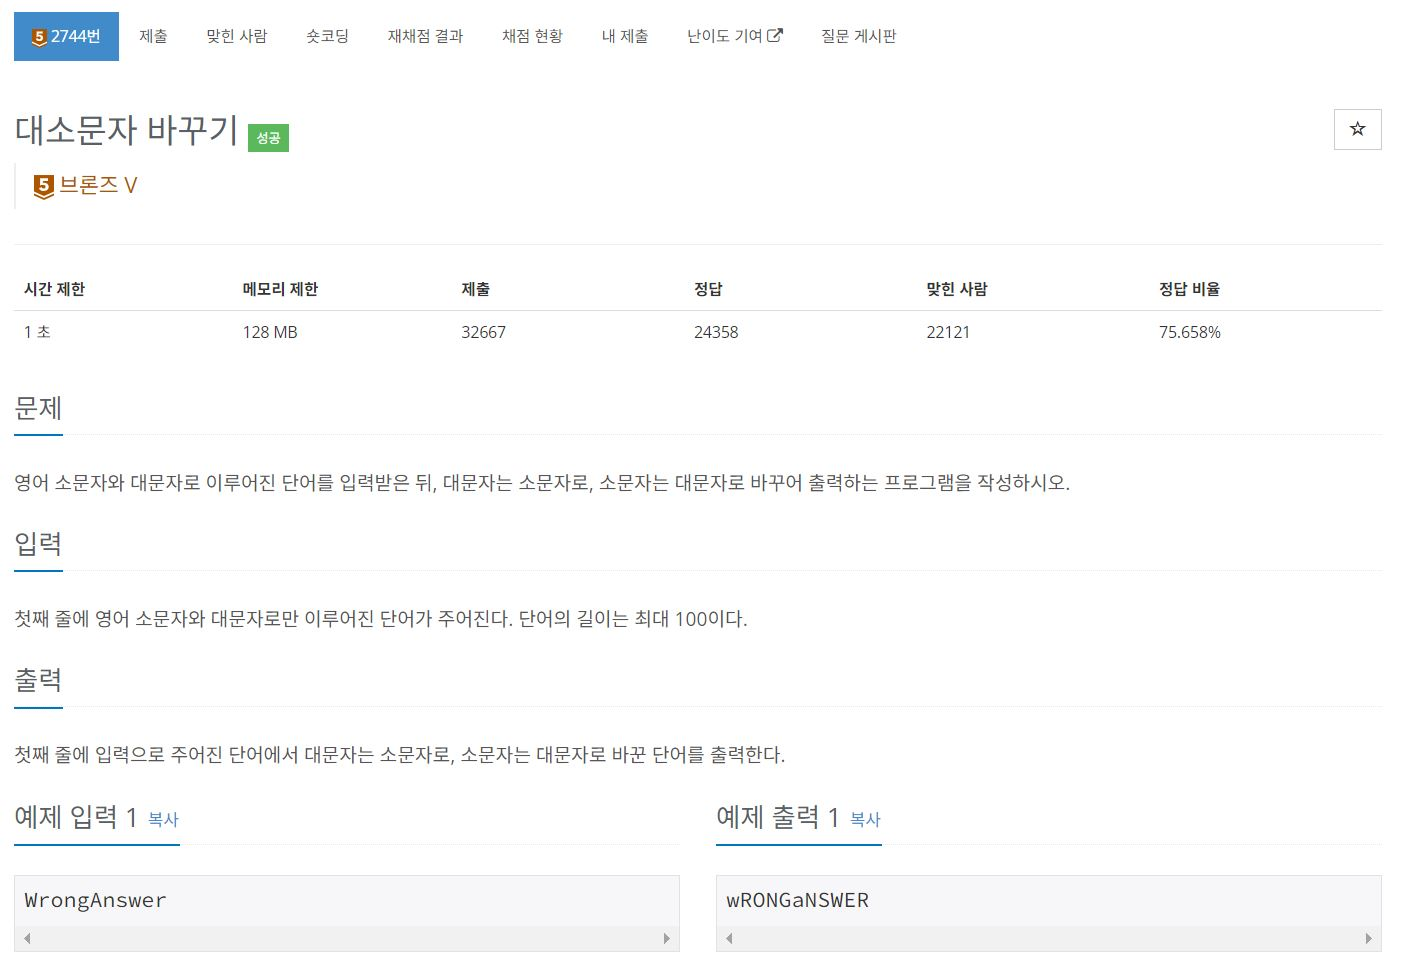
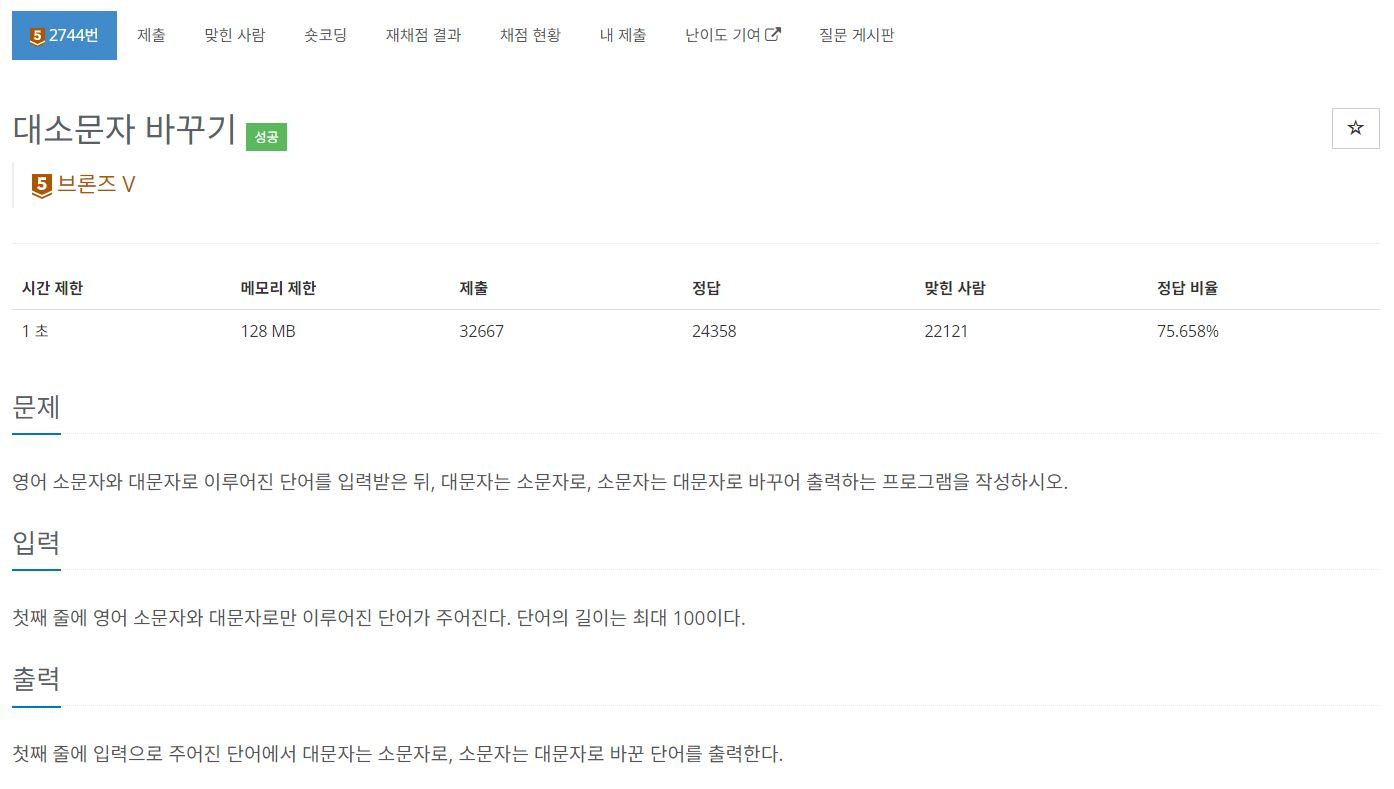
2024 08 04 home

diff --git a/month_08/src/day_04/BOJ_S5_25206/Main.java b/month_08/src/day_04/BOJ_S5_25206/Main.java
@@ -1,0 +1,41 @@
+package day_04.BOJ_S5_25206;
+
+import java.io.*;
+import java.util.*;
+
+public class Main {
+    public static void main(String[] args) throws IOException {
+        BufferedReader br = new BufferedReader(new InputStreamReader(System.in));
+        StringTokenizer st;
+
+        Map<String, Double> gradeMap = new HashMap<>();
+        gradeMap.put("A+", 4.5);
+        gradeMap.put("A0", 4.0);
+        gradeMap.put("B+", 3.5);
+        gradeMap.put("B0", 3.0);
+        gradeMap.put("C+", 2.5);
+        gradeMap.put("C0", 2.0);
+        gradeMap.put("D+", 1.5);
+        gradeMap.put("D0", 1.0);
+        gradeMap.put("P", 5.0);
+        gradeMap.put("F", 0.0);
+
+        double sum1 = 0;
+        double sum2 = 0;
+
+        for(int i=0 ; i<20 ; i++){
+            st = new StringTokenizer(br.readLine());
+            st.nextToken();
+
+            double credit = Double.parseDouble(st.nextToken());
+            double grade = gradeMap.get(st.nextToken());
+
+            if(grade != 5.0){
+                sum1 += credit * grade;
+                sum2 += credit;
+            }
+        }
+
+        System.out.println(sum2 > 0 ? sum1 / sum2 : 0);
+    }
+}
